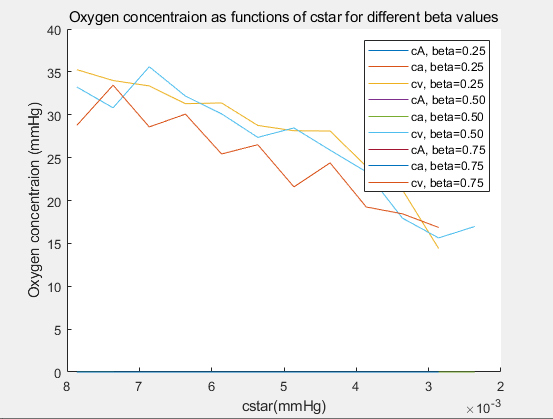
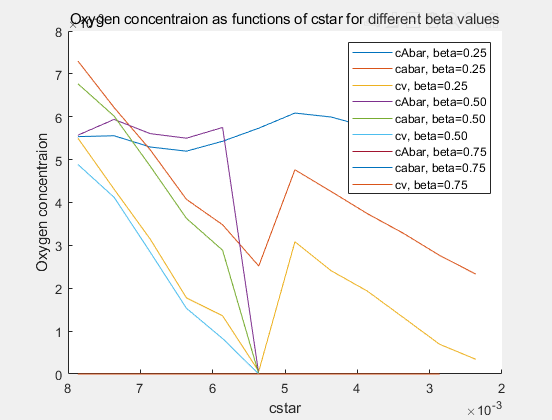
Task9 Final Version update

diff --git a/Final Version/Task9/task9.m b/Final Version/Task9/task9.m
@@ -20,13 +20,13 @@ for j = 1:length(beta_values)
         cvsolve
         outchecklung
         [~, PAbar, Pabar, Pv] = lung(0.5);
-        [~, cA, ca, cv] = lung(0.5);
-        Pabar_values(j, i) = Pabar;
-        PAbar_values(j, i) = PAbar;
-        Pv_values(j,i) = Pv;
-        ca_values(j,i) = cabar;
-        cA_values(j,i) = cAbar;
-        cv_values(j,i) = cv;
+        [~, cAbar, cabar, cv] = clung();
+    Pabar_values(i) = Pabar;
+    PAbar_values(i) = PAbar;
+    Pv_values(i) = Pv;
+    ca_values(i) = cabar;
+    cA_values(i) = cAbar;
+    cv_values(i) = cv;
 
         if Pabar < Pabar_threshold
                 fprintf('For beta=%.2f, the minimum cstar value at which normal resting rate of oxygen consumption can be maintained is %.2f mmHg\n', beta, cstar);
@@ -56,7 +56,7 @@ for j = 1:length(beta_values)
     plot(cstar_values, Pabar_values(j, :), 'DisplayName', sprintf('Pabar, beta=%.2f', beta_values(j)));
     plot(cstar_values, Pv_values(j, :), 'DisplayName', sprintf('Pv, beta=%.2f', beta_values(j)));
 end
-xlabel('cstar (mmHg)');
+xlabel('cstar');
 ylabel('Partial Pressure (mmHg)');
 legend;
 title('Partial Pressures as functions of cstar for different beta values');
@@ -67,13 +67,13 @@ hold off;
 figure;
 hold on;
 for j = 1:length(beta_values)
-plot(cstar_values, cA_values(j, :), 'DisplayName', sprintf('cA, beta=%.2f', beta_values(j)));
-plot(cstar_values, ca_values(j, :), 'DisplayName', sprintf('ca, beta=%.2f', beta_values(j)));
+plot(cstar_values, cA_values(j, :), 'DisplayName', sprintf('cAbar, beta=%.2f', beta_values(j)));
+plot(cstar_values, ca_values(j, :), 'DisplayName', sprintf('cabar, beta=%.2f', beta_values(j)));
 plot(cstar_values, cv_values(j, :), 'DisplayName', sprintf('cv, beta=%.2f', beta_values(j)));
 end
 
-xlabel('cstar(mmHg)');
-ylabel('Oxygen concentraion (mmHg)');
+xlabel('cstar');
+ylabel('Oxygen concentraion');
 legend;
 title('Oxygen concentraion as functions of cstar for different beta values');
 set(gca, 'XDir', 'reverse');

diff --git a/Final Version/Task9/clung.m b/Final Version/Task9/clung.m
@@ -1,0 +1,14 @@
+function [cI, cAbar, cabar, cv] = clung(beta)
+    global Pstar cstar n maxcount M Q camax RT cI;
+setup_lung
+
+a1=-log(rand(n,1));
+a2=-log(rand(n,1));
+av=(a1+a2)/2;        
+VA=VAbar*(a1*beta+av*(1-beta));
+Q = Qbar*(a2*beta+av*(1-beta));
+r=VA./Q;
+
+cvsolve
+outchecklung
+end
